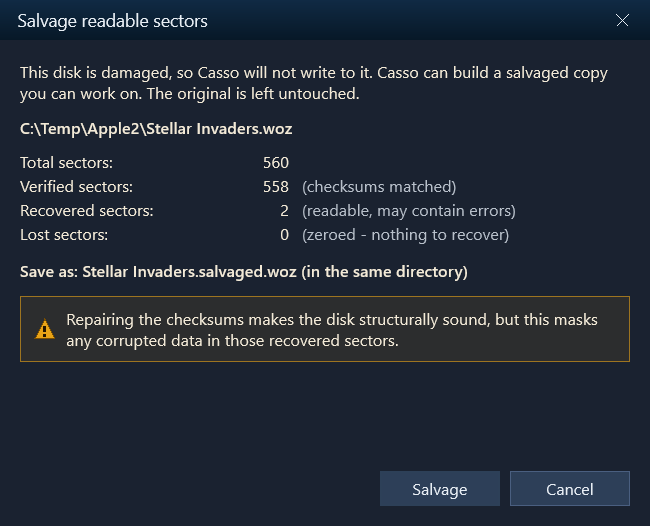
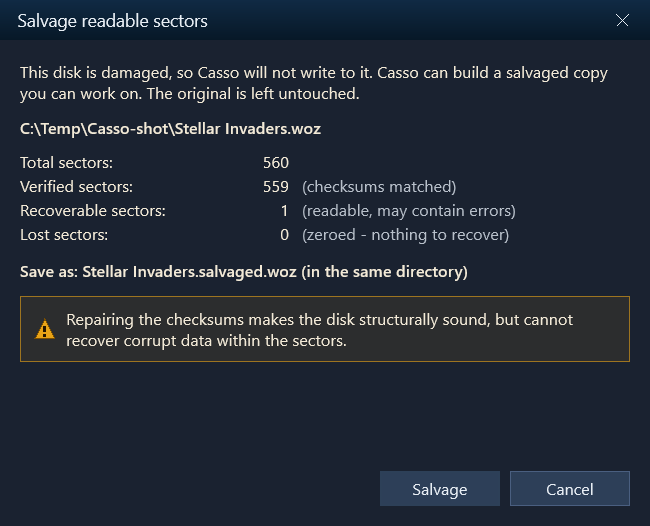
docs(readme): describe salvage as a user scenario, not a mechanism
The section explained the WOZ checksum, the XOR chain behind recovered sectors,
and which formats carry a checksum to detect damage against. All true, none of
it what a reader of the README is there for -- they want to know what Casso now
does for them, and the detail belongs in the CHANGELOG and the status doc, where
it already is.

Now three sentences: integrity is checked on insert, a damaged disk is held
read-only so it cannot get worse, and salvage offers a structurally correct
copy. The heading carries the format, which also answers the question the old
prose spent a paragraph on -- detection needs a stored checksum, and .woz is the
only image format that has one.

"Wizard" is deliberate, per the owner, even though the first step is a damage
report rather than a wizard page: it conveys the shape of the thing better than
naming the mechanism would.

The screenshot was two revisions stale: captured before the figures row was
renamed Recoverable and before the warning was reworded, so the README showed
strings that no longer existed anywhere in the product. Recaptured from a build
verified newer than the source that changed them -- the first recapture used a
binary whose link had failed, which is how a stale screenshot gets published
twice.

The CHANGELOG carried the same dead wording in prose, paraphrasing the warning
as "masking any corrupted data left in those recovered sectors". Both now match
the string the dialog actually shows.

diff --git a/README.md b/README.md
@@ -47,35 +47,14 @@ See [CHANGELOG.md](CHANGELOG.md) for the granular history, and
 [ARCHITECTURE.md](ARCHITECTURE.md) for a technical overview of the emulator's
 internals (projects, threading, the memory model, and the optimization log).
 
-### Salvage a damaged disk (v1.17.0)
+### Salvage a damaged .woz disk (v1.17.0)
 
-A WOZ whose stored checksum no longer matches its contents is damaged, and
-Casso will not write to it — rewriting the file would stamp a freshly
-computed checksum over the same damage, leaving nothing able to tell the file
-is wrong. That protects the evidence, but on its own it leaves you holding a
-disk you cannot write to.
+Casso now checks disk integrity when a .woz disk is inserted. If the checksums
+are incorrect, Casso treats the disk as read-only to prevent further corruption
+or data loss. A Salvage wizard opens and offers to salvage data into a
+structurally correct copy of the original disk.
 
-Casso can now build a **salvaged copy** beside it, from the Disk menu or
-straight from the report shown when the damaged image is inserted. Every sector
-is checked against the checksums the disk format has always carried, and the
-result is stated before anything is written:
-
-<p align="center"><img src="Assets/feat-salvage.png" alt="Salvage readable sectors dialog — the damaged disk's path, a table of total, verified, recovered and lost sectors, the destination filename, and a warning that repairing the checksums masks any corrupted data left in the recovered sectors" width="560" /></p>
-
-Sectors that fail verification are **recovered rather than discarded**. A data
-field decodes as a running XOR chain, so one bad nibble leaves every byte before
-it exactly right and skews the rest by a single constant — and when what
-rotted is the check nibble itself, the sector is perfect. Those bytes are kept
-and written with a correct checksum, so a sector that would have made DOS report
-an I/O error reads normally instead. Only a sector with nothing usable is
-zeroed.
-
-The original is never opened for writing. It keeps its damage, detectably, and
-the copy is a working disk you can write to.
-
-Checking every sector also found something nobody was looking for: a genuine
-bad sector in `AppleStellarInvaders.woz`, a 1980 preservation dump whose
-file-level checksum is perfectly valid.
+<p align="center"><img src="Assets/feat-salvage.png" alt="Salvage dialog listing total, verified, recoverable and lost sectors for a damaged disk, the name of the salvaged copy, and a warning that repairing the checksums cannot recover corrupt data" width="560" /></p>
 
 ### Create blank disks in-app + write-protect toggle (v1.16.0)
 

diff --git a/CHANGELOG.md b/CHANGELOG.md
@@ -34,8 +34,8 @@ Entries before versioning was introduced use dates only.
 
   The figures are shown before anything is written, because a lossy copy is a
   decision to make with the numbers in front of you, and the dialog warns that
-  repairing the checksums makes the disk structurally sound while masking any
-  corrupted data left in those recovered sectors. The original is never opened
+  repairing the checksums makes the disk structurally sound but cannot recover
+  corrupt data within the sectors. The original is never opened
   for writing: it keeps its damage, detectably, which is the guarantee the
   whole feature rests on. The salvaged copy carries the source's `META` across
   — it is still the same disk — but takes Casso's own creator stamp,
